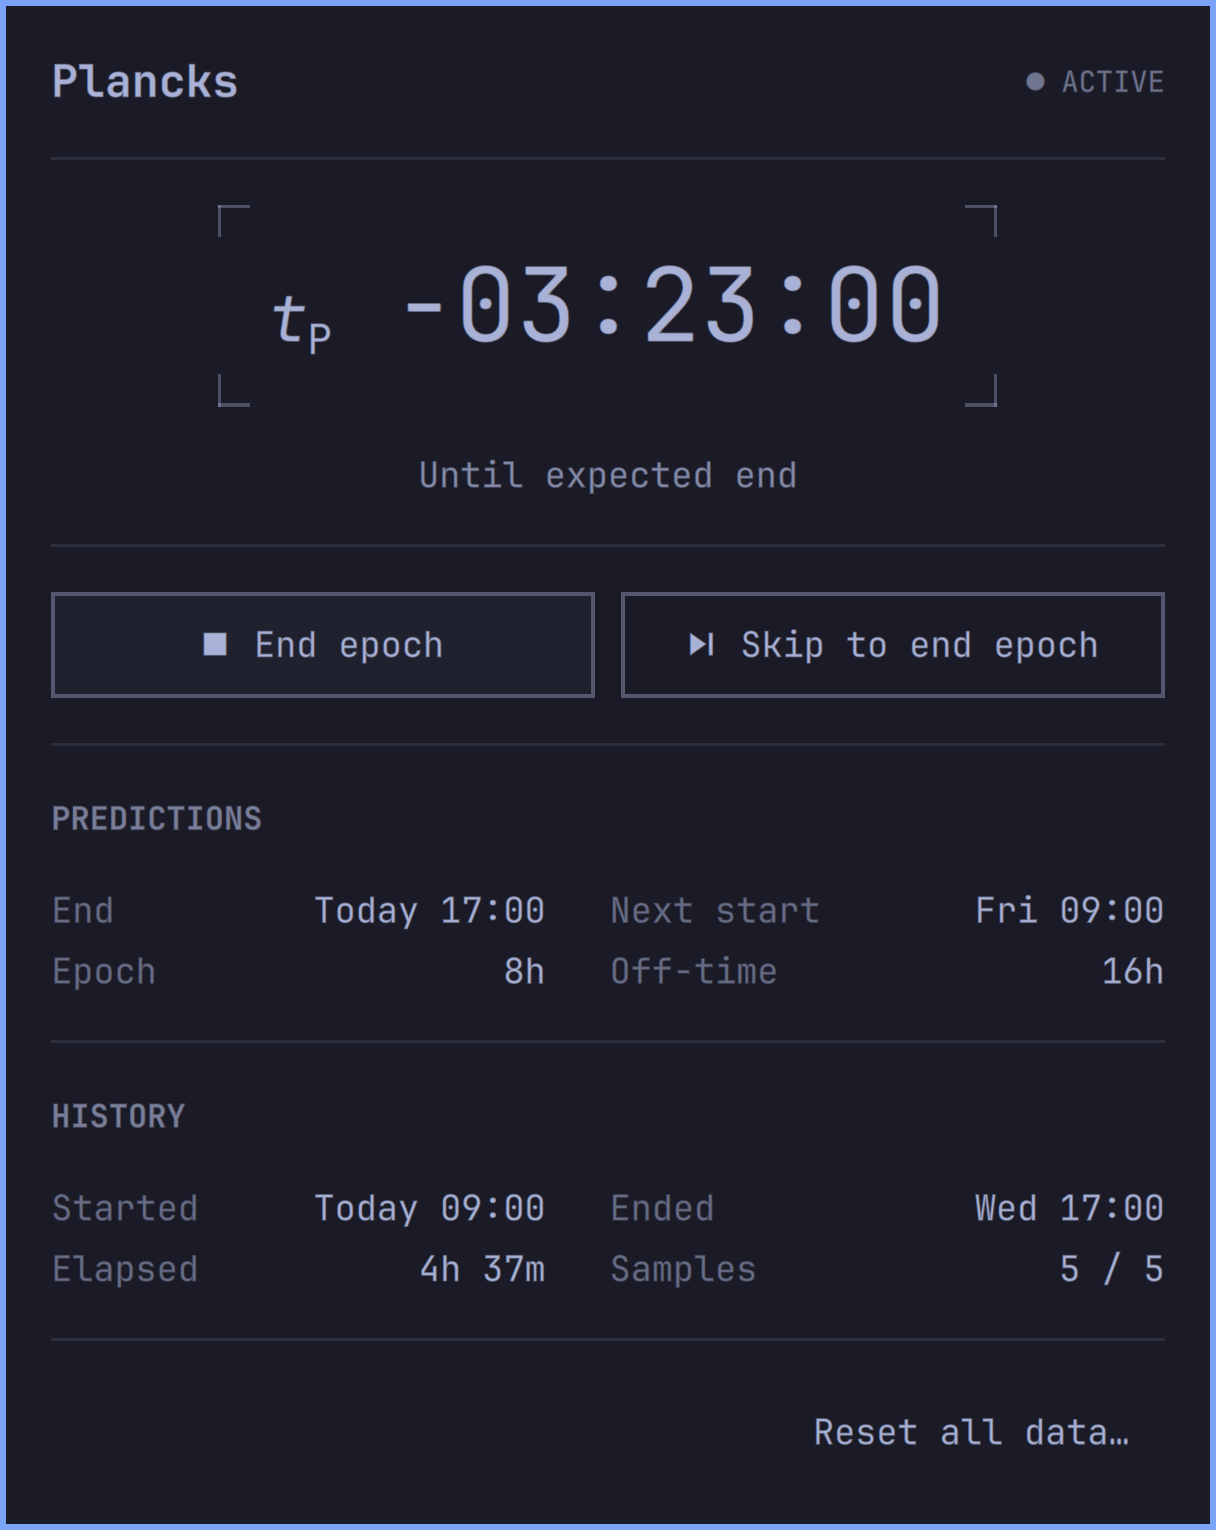
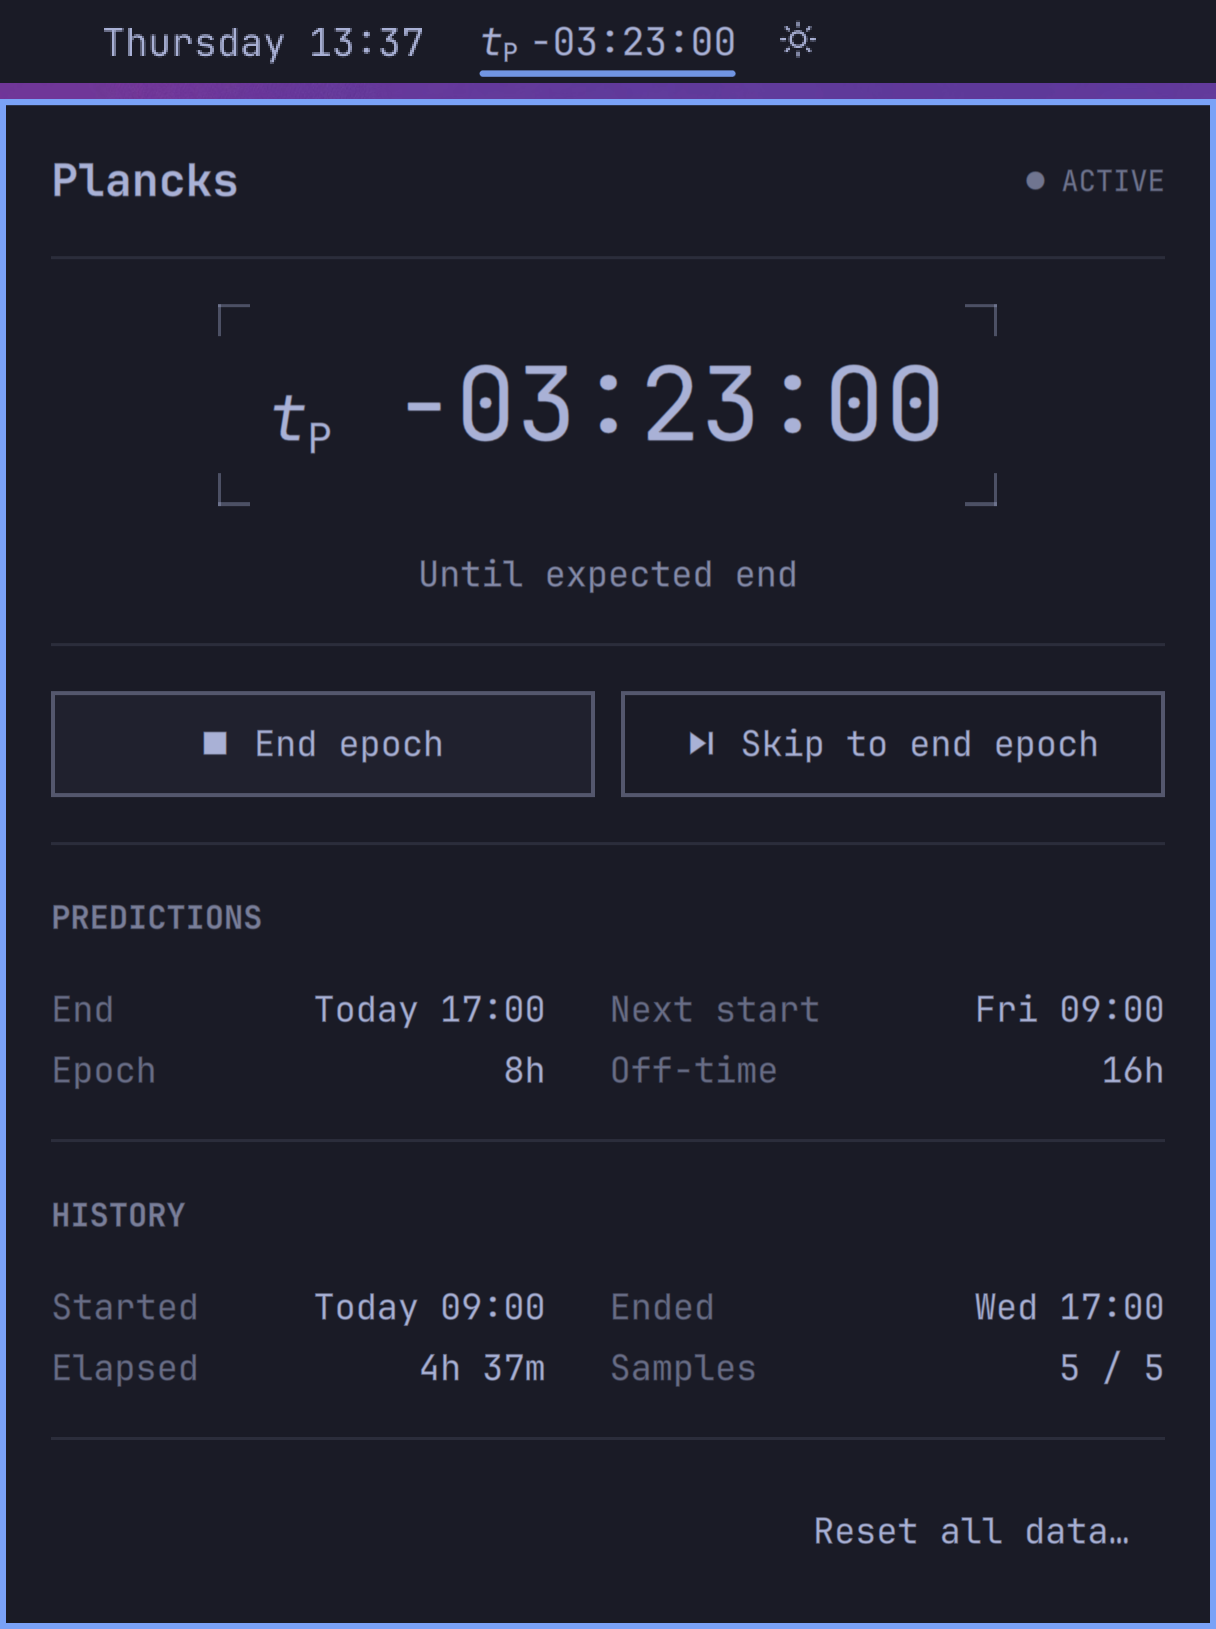
update preview image for v1.1.0
- adds realistic taskbar screenshot preview

diff --git a/README.md b/README.md
@@ -7,7 +7,7 @@
 Plancks is an Omarchy bar widget for your daily opportunity window. Standard clocks keep people in sync; Plancks helps you understand your own daily rhythm.
 
 <p align="center">
-  <img src="preview.png" alt="Plancks panel showing an active epoch, predictions, and recent samples" width="360">
+  <img src="preview.png" alt="Plancks between the clock and weather, with its active epoch panel open" width="360">
   <br>
   <em>Preview with sample history.</em>
 </p>
